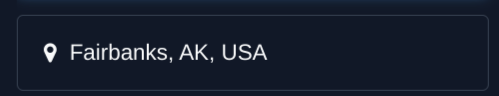
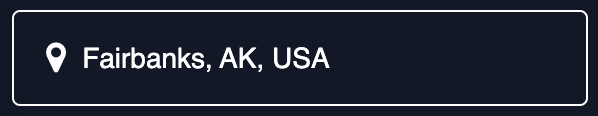
Toolbar Panels Polish: Viewfinder panel tweaks

Changed region(s): [[0.0, 0.0625, 0.992, 0.9688], [0.0601, 0.3438, 0.5711, 0.6562]]

diff --git a/src/css/map-view.css b/src/css/map-view.css
@@ -1375,7 +1375,7 @@ other class: .ui-slider-range */
 
 .viewfinder-predictions {
   list-style: none;
-  margin: -1rem 1.5rem 0 1.5rem;
+  margin: -.5rem 1.5rem 0 1.5rem;
 
   .viewfinder-prediction__content {
     align-items: center;
@@ -1386,24 +1386,23 @@ other class: .ui-slider-range */
     color: var(--map-col-text-highlight, white);
     cursor: pointer;
     display: flex;
+    gap: .5rem;
     height: 3rem;
-    justify-content: flex-start;
-    margin: 0.25rem 0;
-    padding: 0.75rem 0.5rem;
+    margin: 0 0 .5rem;
+    padding: .5rem 1rem;
     transition: background-color .3s ease-in-out;
 
     >* {
-      flex: 1;
       overflow: hidden;
       text-overflow: ellipsis;
       white-space: nowrap;
     }
 
     i {
-      flex-grow: 0;
-      min-width: 1.5rem;
-      max-width: 1.5rem;
+      display: contents;
       font-size: 1.1rem;
+      height: 2rem;
+      width: 2rem;
       text-align: center;
     }
 
